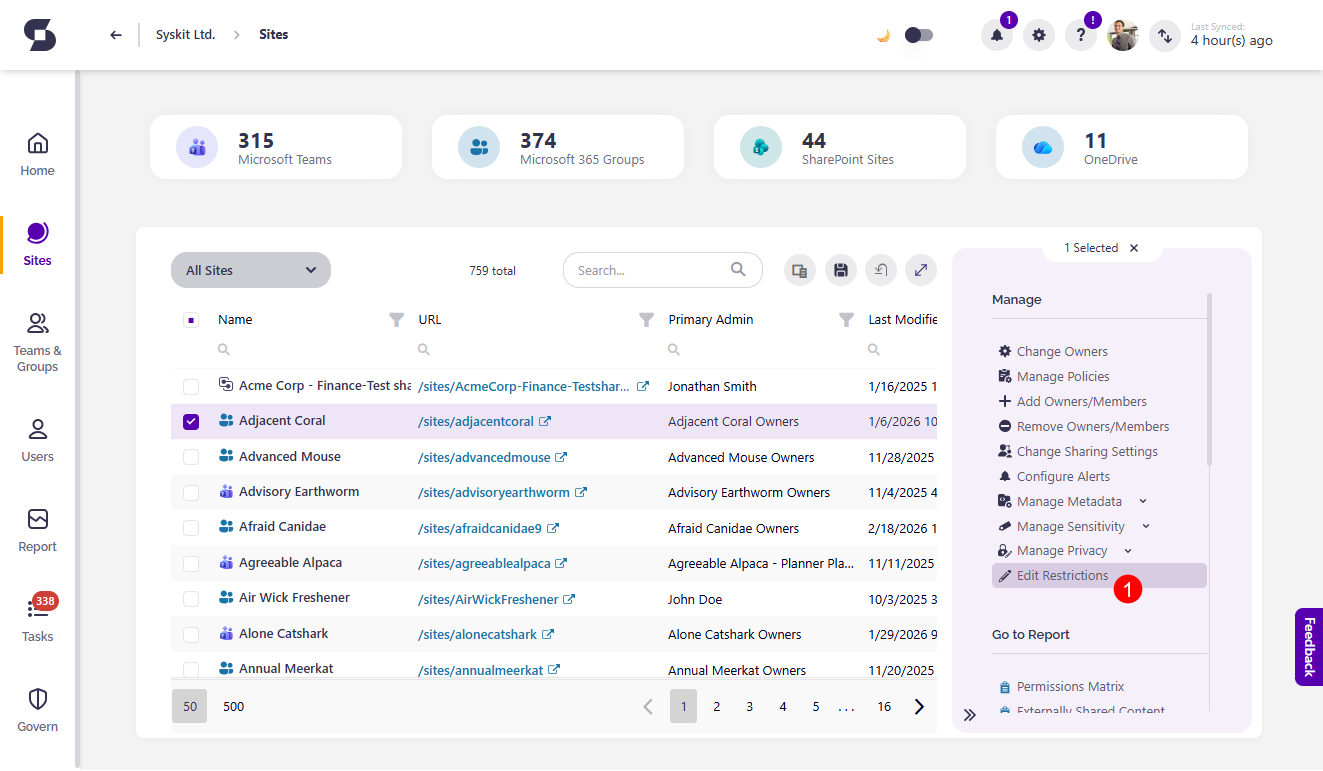
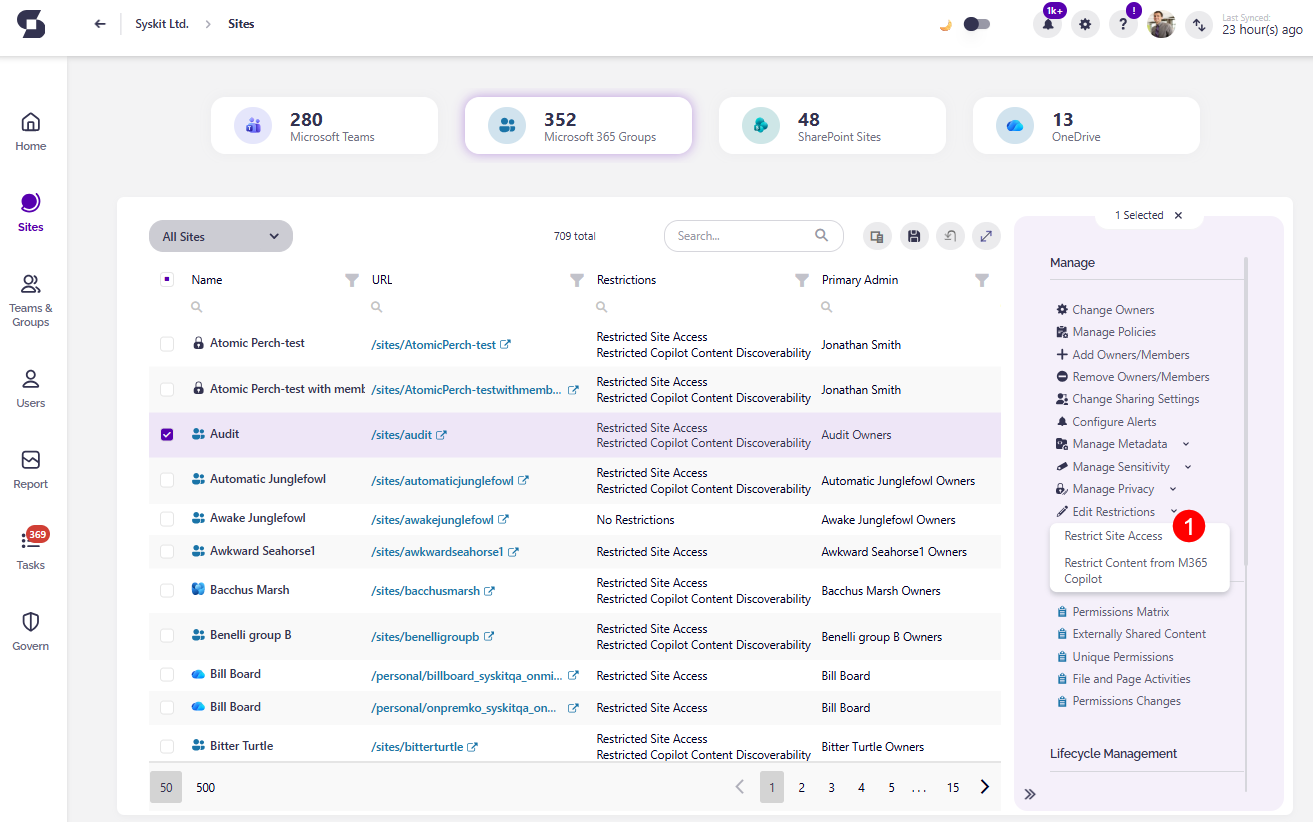
fix

diff --git a/docs/access-management/restrictions.md b/docs/access-management/restrictions.md
@@ -15,7 +15,9 @@ With **the new Restrictions column on the Site Overview screen**, you can now ea
 
 By using **the Edit Restrictions action**, located on the **Site Overview and Site Details screens**, you can update these settings for selected sites and choose whether to restrict access to content, restrict content discoverability, both, or leave a workspace without restrictions.
 
-**Clicking the Edit Restrictions action (1)** opens the Edit Restrictions dialog, where you can make your selection. 
+**Clicking the Edit Restrictions action (1)** opens the dropdown with two options for restrictions:
+* [Restrict Site Access to Content](#restrict-site-access-to-content) 
+* [Restrict Content from M365 Copilot](#restrict-content-from-m365-copilot) 
 
 ![Edit Restrictions](../../static/img/restrictions-action.png)
 
